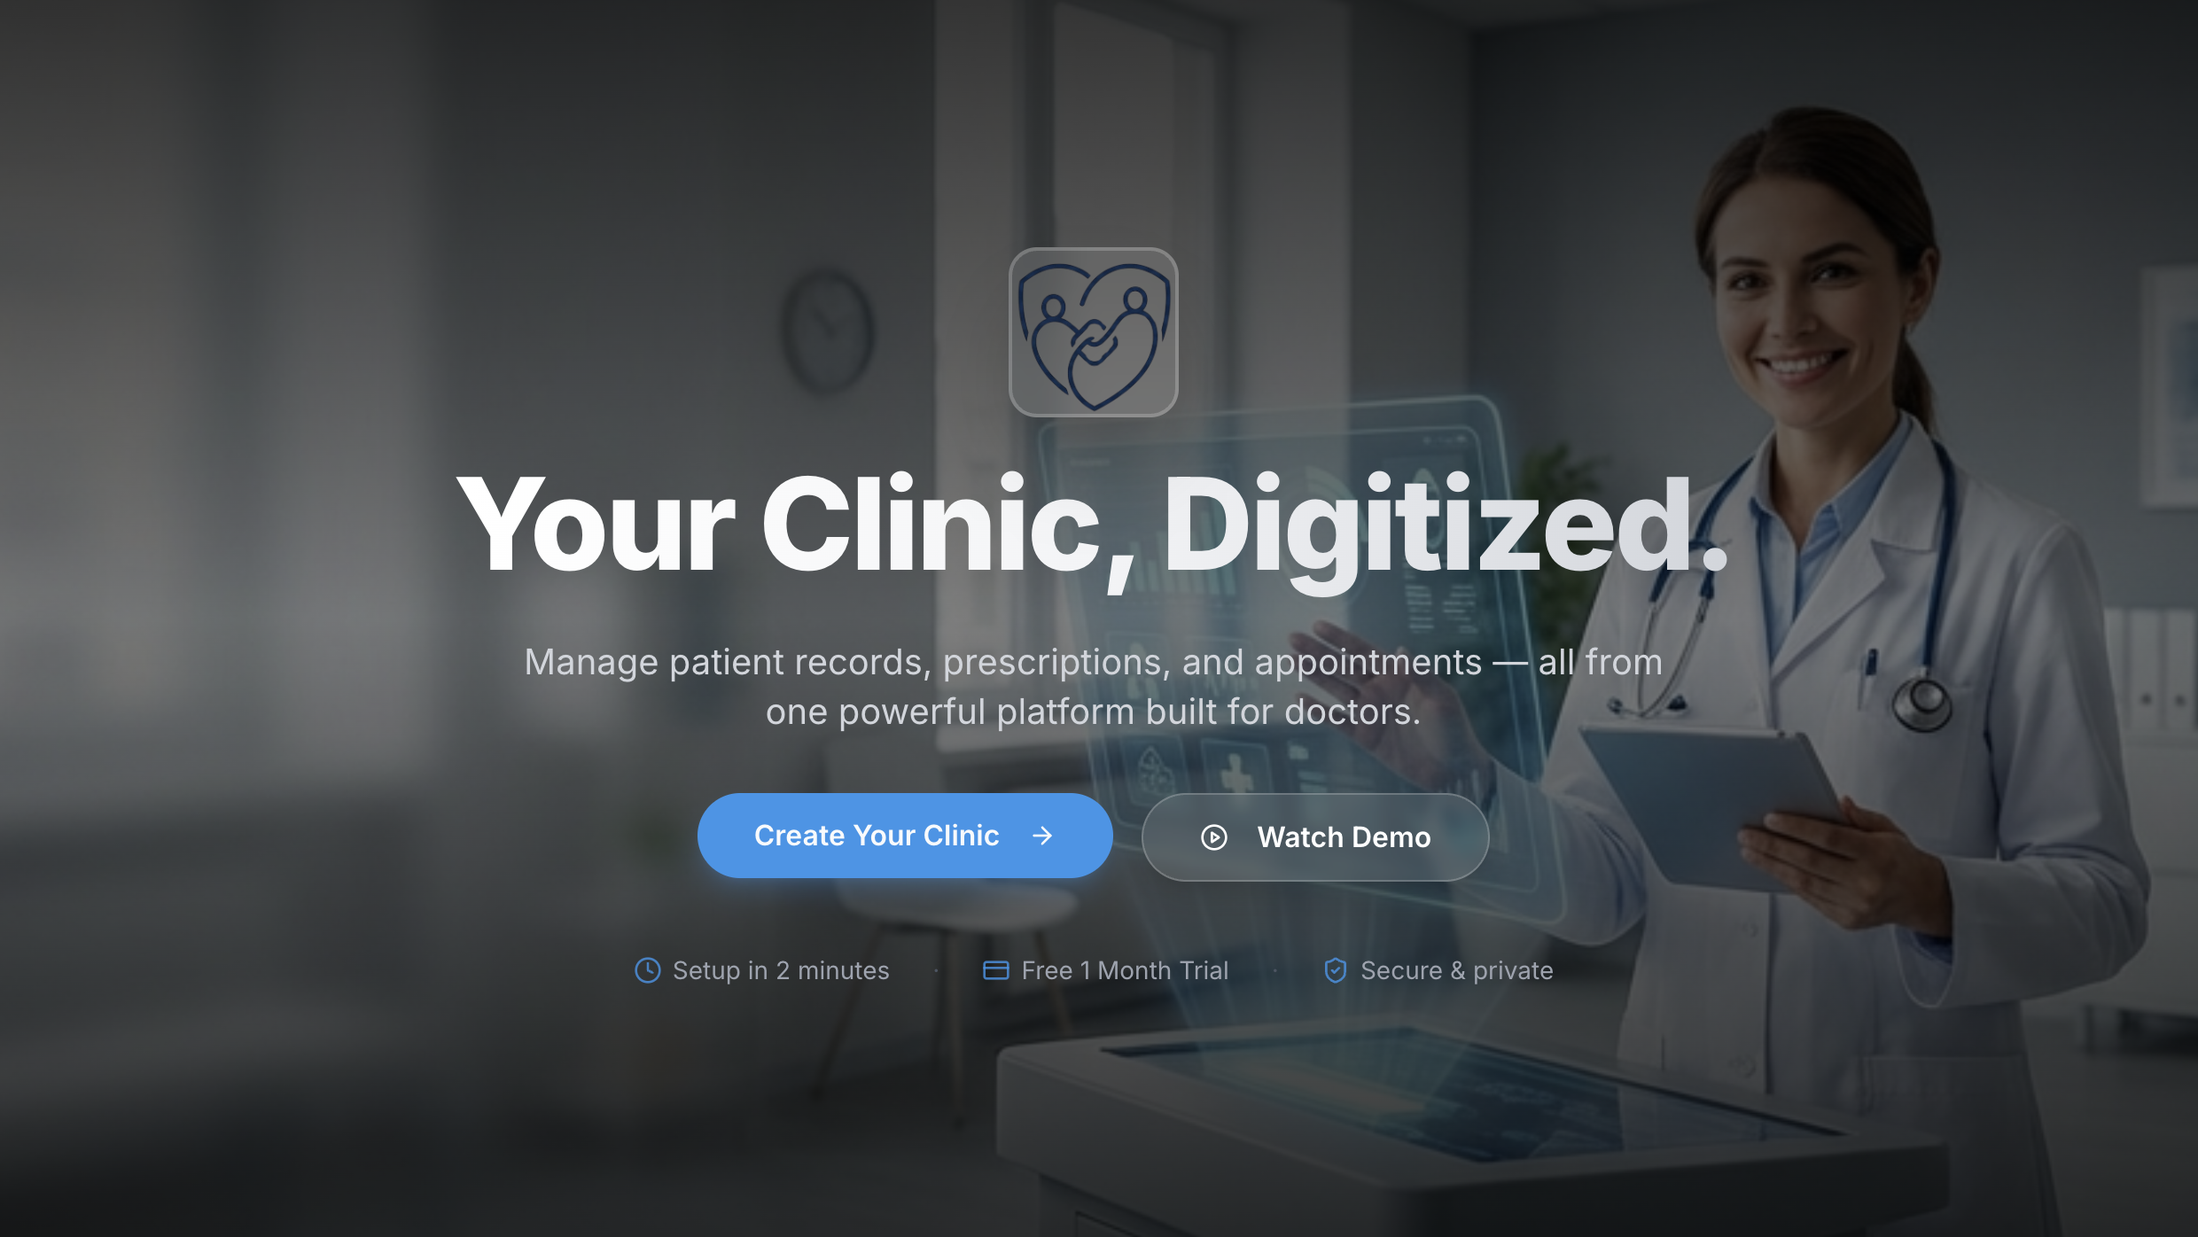
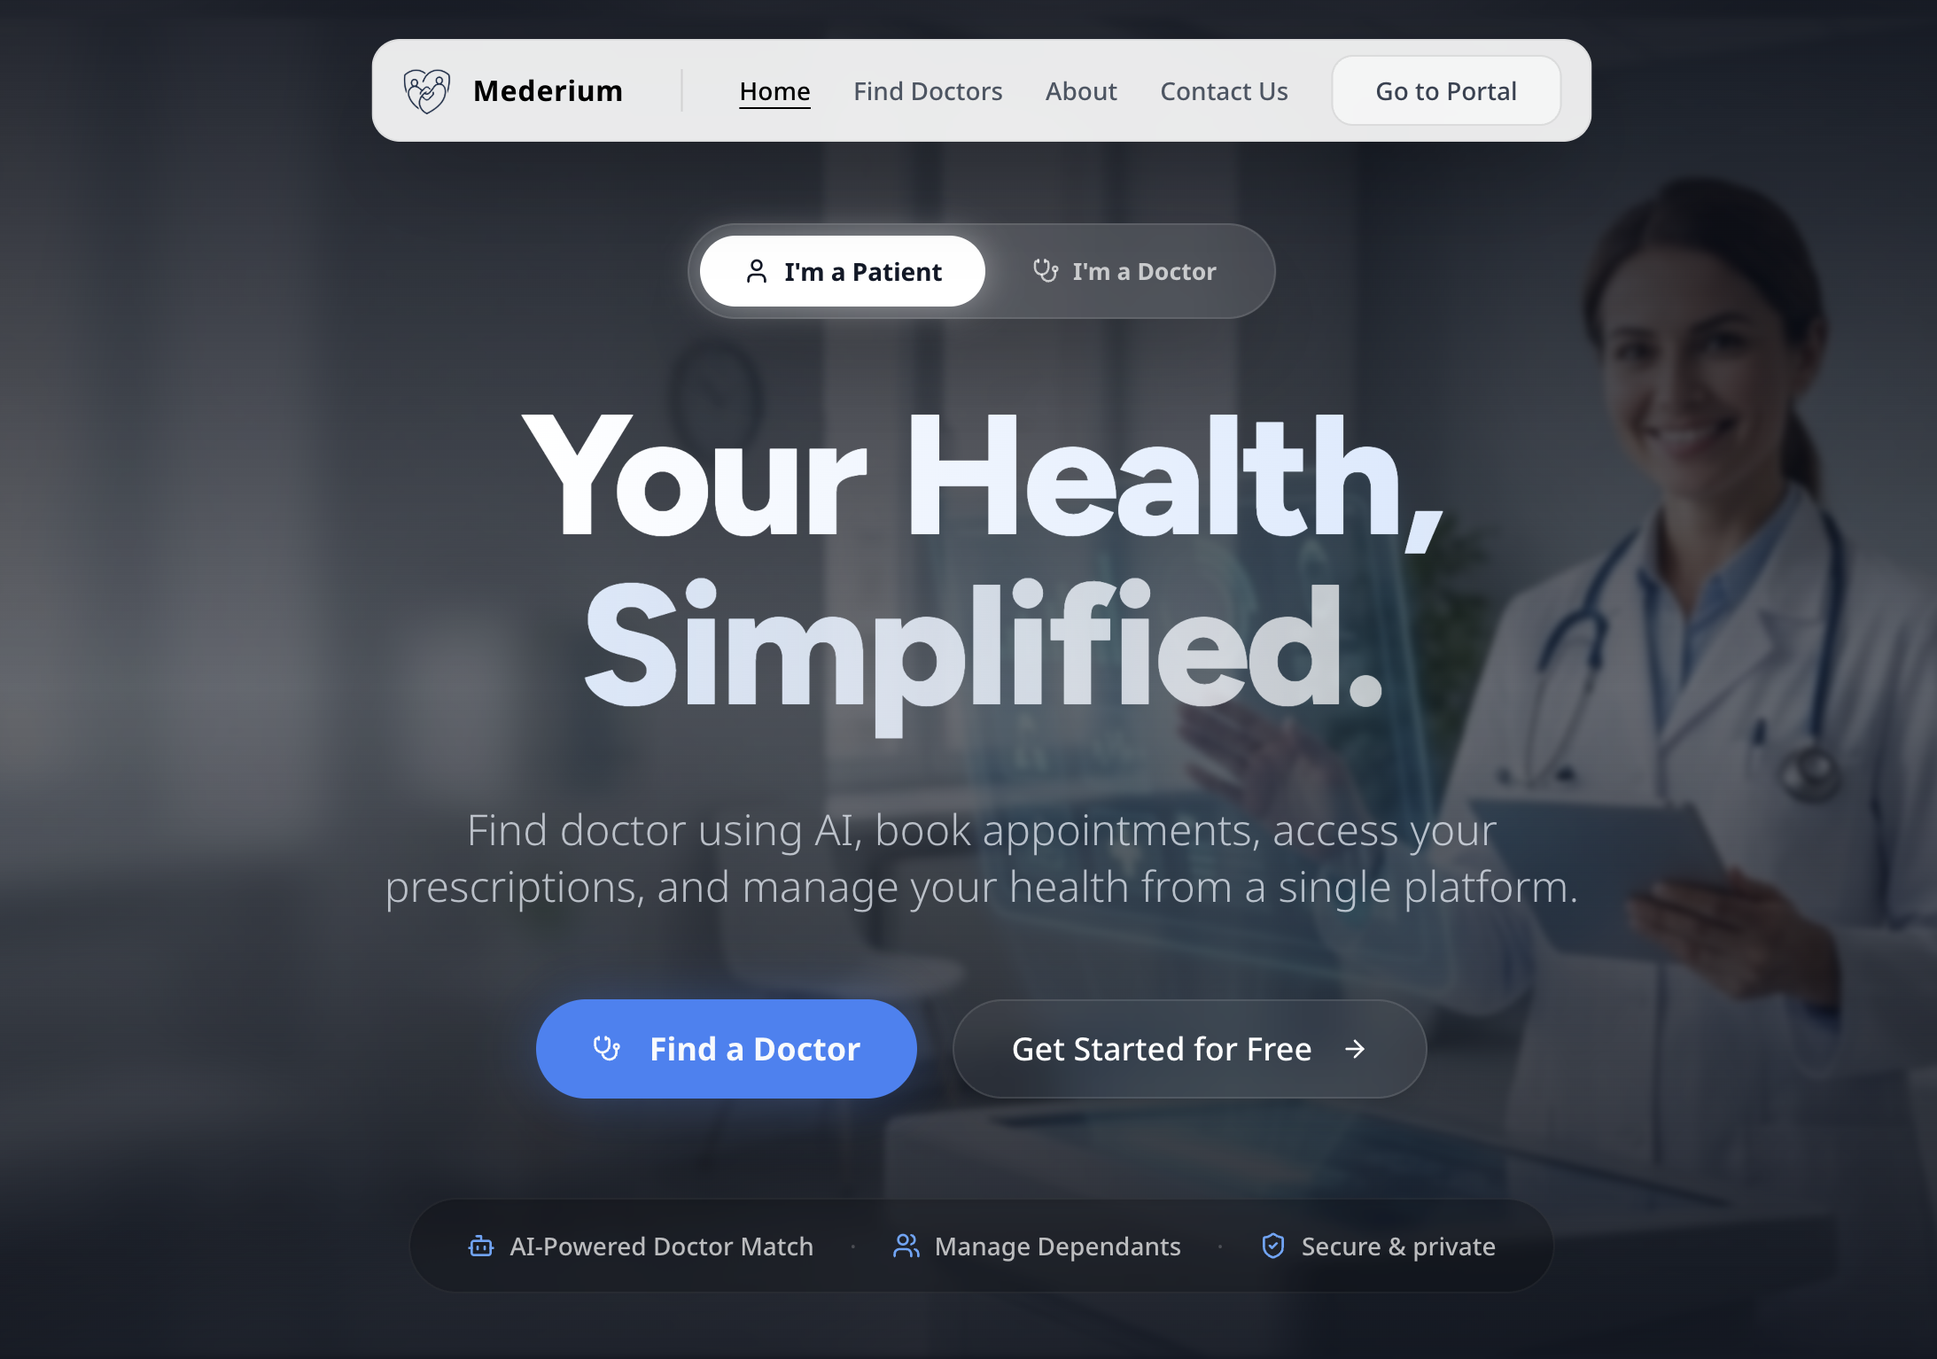
add AI Industry Projects section and update existing portfolio project content

Changed region(s): [[0.1555, 0.0, 1.0, 0.9549], [0.0311, 0.154, 0.0933, 0.5544], [0.2489, 0.8933, 0.4044, 0.9241]]

diff --git a/index.html b/index.html
@@ -22,6 +22,7 @@
                 <li><a href="#about">About</a></li>
                 <li><a href="#academia">Research</a></li>
                 <li><a href="#projects">Projects</a></li>
+                <li><a href="#ai-projects">AI Systems</a></li>
                 <li><a href="#contact" class="btn-primary btn-small">Let's Talk</a></li>
             </ul>
             <div class="hamburger">
@@ -46,7 +47,7 @@
             </div>
             <div class="hero-image-wrapper fade-in-up" style="animation-delay: 0.2s;">
                 <div class="image-border">
-                    <img src="assets/images/profile.jpeg" alt="M. Qasim Ayub" class="hero-image">
+                    <img src="assets/images/profile.jpg" alt="M. Qasim Ayub" class="hero-image">
                 </div>
             </div>
         </section>
@@ -89,32 +90,168 @@
                         <img src="assets/images/mederium.png" alt="Decentralized Healthcare" loading="lazy">
                     </div>
                     <div class="project-info">
-                        <h3 class="project-title">Healthcare Platform</h3>
-                        <p class="project-description">Platform for doctors and hospitals to conduct secure, commission-free consultations. Manage detailed patient records, appointments, and medical history. Features seed-based encryption for patient data and AI guidance using pretrained LLMs.</p>
+                        <h3 class="project-title">Mederium</h3>
+                        <p class="project-description">Platform for doctors and hospitals to conduct secure, commission-free consultations. Features Voice AI that lets doctors dictate a simple voice note and automatically generates a complete, structured prescription, segmented into medicines, clinical notes, patient history, and ICD-10 coded diagnoses.</p>
+                        <a href="https://mederium.com" class="card-repo-link" target="_blank">
+                            <svg width="18" height="18" fill="none" viewBox="0 0 24 24" stroke="currentColor" stroke-width="2" stroke-linecap="round" stroke-linejoin="round"><circle cx="12" cy="12" r="10"/><line x1="2" y1="12" x2="22" y2="12"/><path d="M12 2a15.3 15.3 0 0 1 4 10 15.3 15.3 0 0 1-4 10 15.3 15.3 0 0 1-4-10 15.3 15.3 0 0 1 4-10z"/></svg>
+                            Visit Website
+                        </a>
                     </div>
                 </div>
 
-                <!-- Project 2 -->
+                <!-- Project 2: Technovate -->
                 <div class="project-card glass-card">
                     <div class="project-image-container">
-                        <img src="assets/images/srm.png" alt="AI Resilience Manager" loading="lazy">
+                        <img src="assets/images/technovate.png" alt="Technovate Global" loading="lazy">
                     </div>
                     <div class="project-info">
-                        <h3 class="project-title">AI Supplier Resilience Manager</h3>
-                        <p class="project-description">Agentic AI system (RAG) that analyses and explains supplier price hikes with contextual, evidence-based reasoning. Leverages TradingEconomics and Metals APIs to assess global metal rates and regional economic conditions.</p>
+                        <h3 class="project-title">Technovate Global</h3>
+                        <p class="project-description">Designed and developed the marketing website for Technovate Global, a software house offering custom software development, AI solutions, and digital transformation services to clients worldwide.</p>
+                        <a href="https://technovateglobal.com" class="card-repo-link" target="_blank">
+                            <svg width="18" height="18" fill="none" viewBox="0 0 24 24" stroke="currentColor" stroke-width="2" stroke-linecap="round" stroke-linejoin="round"><circle cx="12" cy="12" r="10"/><line x1="2" y1="12" x2="22" y2="12"/><path d="M12 2a15.3 15.3 0 0 1 4 10 15.3 15.3 0 0 1-4 10 15.3 15.3 0 0 1-4-10 15.3 15.3 0 0 1 4-10z"/></svg>
+                            Visit Website
+                        </a>
                     </div>
                 </div>
 
-                <!-- Project 3: DevClan Dashboard -->
+                <!-- Project 3: Dewdrop -->
                 <div class="project-card glass-card">
                     <div class="project-image-container">
-                        <img src="assets/images/pbi.png" alt="Real Estate Analytics Dashboard" loading="lazy">
+                        <img src="assets/images/dewdrop.png" alt="Dewdrop Skincare" loading="lazy">
                     </div>
                     <div class="project-info">
-                        <h3 class="project-title">Real Estate Analytics Dashboard</h3>
-                        <p class="project-description">Built a Power BI analytics dashboard for a US-based real estate and escrow agency, delivering sales insights across 100,000+ properties and 100+ agents. Automated internal workflows reducing manual work by up to 90%.</p>
+                        <h3 class="project-title">Dewdrop</h3>
+                        <p class="project-description">Built the full e-commerce platform for Dewdrop, a Pakistani skincare brand, including a product storefront, shopping cart, Cash on Delivery checkout flow, order management, and a custom admin panel for inventory, order tracking, and customer data.</p>
+                        <a href="https://dewdrop.life" class="card-repo-link" target="_blank">
+                            <svg width="18" height="18" fill="none" viewBox="0 0 24 24" stroke="currentColor" stroke-width="2" stroke-linecap="round" stroke-linejoin="round"><circle cx="12" cy="12" r="10"/><line x1="2" y1="12" x2="22" y2="12"/><path d="M12 2a15.3 15.3 0 0 1 4 10 15.3 15.3 0 0 1-4 10 15.3 15.3 0 0 1-4-10 15.3 15.3 0 0 1 4-10z"/></svg>
+                            Visit Website
+                        </a>
                     </div>
                 </div>
+            </div>
+        </section>
+
+        <!-- AI Industry Projects Section -->
+        <section id="ai-projects" class="ai-projects scroll-reveal">
+            <div class="section-header">
+                <h2 class="section-title">AI Industry Projects</h2>
+                <div class="title-line"></div>
+            </div>
+
+            <div class="ai-projects-list">
+
+                <!-- Recruiter+ -->
+                <div class="ai-project-card glass-card">
+                    <div class="ai-project-header">
+                        <h3 class="project-title">Recruiter+</h3>
+                        <span class="ai-type-badge">AI Hiring Assistant · RAG Pipeline</span>
+                    </div>
+                    <p class="project-description">End-to-end AI recruitment platform with a dual-database architecture (PostgreSQL + Qdrant) that ingests CVs asynchronously, performs semantic search, and synthesises explainable recruiter insights — with automated LinkedIn enrichment running entirely in the background.</p>
+                    <div class="ai-project-divider"></div>
+                    <div class="ai-project-body">
+                        <div class="ai-highlights">
+                            <h4>Architecture Highlights</h4>
+                            <ul>
+                                <li>Async ingestion: PDF → LlamaParse → LLM JSON extraction → dual-DB indexing in seconds</li>
+                                <li>Real-time pipeline for individual uploads; Batch pipeline groups 500 CVs per job via OpenAI Batch API, cutting LLM costs by 50%</li>
+                                <li>Section-aware chunking (MarkdownHeaderTextSplitter) + entity resolution assigns one <code>candidate_id</code> across multiple CV variants</li>
+                                <li>Oversampling & deduplication: queries top-50 chunks from Qdrant, deduplicates to top-5 unique humans by <code>candidate_id</code></li>
+                                <li>Small-to-Big retrieval: chunk-level semantic precision → full CV + LinkedIn fetched from Postgres for explainable LLM synthesis with inline citations</li>
+                                <li>Automated LinkedIn scraping via Apify triggered on upload; re-scraped on shortlist/profile view and refreshed every 6 months via cron</li>
+                            </ul>
+                        </div>
+                        <div class="ai-tech-col">
+                            <h4>Tech Stack</h4>
+                            <div class="tech-stack">
+                                <span class="tech-chip">LlamaParse</span>
+                                <span class="tech-chip">GPT-4o-mini</span>
+                                <span class="tech-chip">OpenAI Embeddings</span>
+                                <span class="tech-chip">PostgreSQL</span>
+                                <span class="tech-chip">Qdrant</span>
+                                <span class="tech-chip">Apify</span>
+                                <span class="tech-chip">AWS S3</span>
+                                <span class="tech-chip">AWS SQS</span>
+                                <span class="tech-chip">AWS Lambda</span>
+                                <span class="tech-chip">LangChain</span>
+                            </div>
+                        </div>
+                    </div>
+                </div>
+
+                <!-- TaxAiders -->
+                <div class="ai-project-card glass-card">
+                    <div class="ai-project-header">
+                        <h3 class="project-title">TaxAiders</h3>
+                        <span class="ai-type-badge">AI Tax Automation · RAG Pipeline</span>
+                    </div>
+                    <p class="project-description">AI-powered tax automation system for UK clients integrating OCR, a RAG pipeline over UK tax codes and HMRC guidelines, omnichannel support routing, and a compliance engine that flags errors before a human ever sees the file.</p>
+                    <div class="ai-project-divider"></div>
+                    <div class="ai-project-body">
+                        <div class="ai-highlights">
+                            <h4>Architecture Highlights</h4>
+                            <ul>
+                                <li>AWS Textract + custom NER model extracts structured tax variables (National Insurance numbers, income thresholds) from uploaded PDFs</li>
+                                <li>RAG pipeline over UK tax codes (Amazon OpenSearch vector DB) powers a 24/7 multilingual GPT-4o chatbot with client-history context</li>
+                                <li>AI Compliance Engine: deterministic rule-based Python for hard thresholds + LLM for semantic gap detection ("missing utility bill for home office claim")</li>
+                                <li>Smart escalation: AI triage → Zendesk routing → live agent receives drafted AI response + client issue summary for fast resolution</li>
+                                <li>Proactive upsell alerts: Dynamic Tax Calculator triggers Salesforce notification when a client qualifies for a tax optimisation strategy</li>
+                            </ul>
+                        </div>
+                        <div class="ai-tech-col">
+                            <h4>Tech Stack</h4>
+                            <div class="tech-stack">
+                                <span class="tech-chip">GPT-4o</span>
+                                <span class="tech-chip">OpenAI Embeddings</span>
+                                <span class="tech-chip">AWS Textract</span>
+                                <span class="tech-chip">Amazon OpenSearch</span>
+                                <span class="tech-chip">AWS Lambda</span>
+                                <span class="tech-chip">Salesforce</span>
+                                <span class="tech-chip">Zendesk</span>
+                                <span class="tech-chip">Custom NER</span>
+                            </div>
+                        </div>
+                    </div>
+                </div>
+
+                <!-- AeroSQL -->
+                <div class="ai-project-card glass-card">
+                    <div class="ai-project-header">
+                        <h3 class="project-title">AeroSQL</h3>
+                        <span class="ai-type-badge">NLP-to-SQL · Agentic AI</span>
+                    </div>
+                    <p class="project-description">Next-generation NLP-to-SQL architecture with a semantic prompt cache, RBAC security layer, knowledge graph–powered JOIN accuracy, a self-correcting validation loop, and multi-model routing designed for enterprise-scale concurrent query throughput.</p>
+                    <div class="ai-project-divider"></div>
+                    <div class="ai-project-body">
+                        <div class="ai-highlights">
+                            <h4>Architecture Highlights</h4>
+                            <ul>
+                                <li>HNSW semantic cache: ≥99.9% match → instant return; 90–99% → Query Tweak Agent swaps variables in cached SQL; &lt;90% → full pipeline</li>
+                                <li>RBAC security: cache hits validated in Python against role access matrix; cache misses use Milvus metadata pre-filtering to physically starve the LLM of unauthorised schema</li>
+                                <li>Neo4j knowledge graph stores the ER map of the client DB — guarantees mathematically correct JOIN paths injected directly into the prompt</li>
+                                <li>Multi-model routing: NVIDIA NIM (Llama/Qwen) for lightweight agents (intent, table, column-prune, tweak); GPT-4o strictly for final SQL generation</li>
+                                <li>Self-correcting loop: LangGraph executes SQL as an EXPLAIN query; on error it appends the exact trace and loops GPT-4o to fix its own mistake</li>
+                                <li>K8s HPA scales pods on HTTP traffic spikes; NVIDIA NIM continuous in-flight batching groups concurrent prompts at the token level on-GPU</li>
+                            </ul>
+                        </div>
+                        <div class="ai-tech-col">
+                            <h4>Tech Stack</h4>
+                            <div class="tech-stack">
+                                <span class="tech-chip">GPT-4o</span>
+                                <span class="tech-chip">NVIDIA NIM</span>
+                                <span class="tech-chip">LangChain</span>
+                                <span class="tech-chip">LangGraph</span>
+                                <span class="tech-chip">Milvus</span>
+                                <span class="tech-chip">Neo4j</span>
+                                <span class="tech-chip">PostgreSQL</span>
+                                <span class="tech-chip">FastAPI</span>
+                                <span class="tech-chip">Kubernetes</span>
+                                <span class="tech-chip">SQLAlchemy</span>
+                                <span class="tech-chip">Pydantic v2</span>
+                            </div>
+                        </div>
+                    </div>
+                </div>
+
             </div>
         </section>
 

diff --git a/styles.css b/styles.css
@@ -613,6 +613,130 @@ a.research-badge:hover::after {
     flex-shrink: 0;
 }
 
+/* AI Industry Projects Section */
+.ai-projects-list {
+    display: flex;
+    flex-direction: column;
+    gap: 2rem;
+}
+
+.ai-project-card {
+    display: flex;
+    flex-direction: column;
+    gap: 1.25rem;
+    transition: transform 0.3s ease, box-shadow 0.3s ease, border-color 0.3s ease;
+}
+
+.ai-project-card:hover {
+    transform: translateY(-4px);
+    box-shadow: 0 12px 40px rgba(99, 102, 241, 0.12);
+    border-color: rgba(99, 102, 241, 0.25);
+}
+
+.ai-project-header {
+    display: flex;
+    align-items: center;
+    justify-content: space-between;
+    gap: 1rem;
+    flex-wrap: wrap;
+}
+
+.ai-type-badge {
+    font-size: 0.75rem;
+    font-weight: 600;
+    text-transform: uppercase;
+    letter-spacing: 0.8px;
+    color: #38bdf8;
+    background: rgba(56, 189, 248, 0.1);
+    border: 1px solid rgba(56, 189, 248, 0.25);
+    padding: 0.3rem 0.9rem;
+    border-radius: 20px;
+    white-space: nowrap;
+}
+
+.ai-project-divider {
+    height: 1px;
+    background: var(--card-border);
+}
+
+.ai-project-body {
+    display: grid;
+    grid-template-columns: 1fr 260px;
+    gap: 2.5rem;
+    align-items: start;
+}
+
+.ai-highlights h4,
+.ai-tech-col h4 {
+    font-size: 0.8rem;
+    font-weight: 600;
+    text-transform: uppercase;
+    letter-spacing: 1px;
+    color: var(--text-muted);
+    margin-bottom: 0.9rem;
+}
+
+.ai-highlights ul {
+    display: flex;
+    flex-direction: column;
+    gap: 0.65rem;
+    list-style: none;
+}
+
+.ai-highlights ul li {
+    color: var(--text-muted);
+    font-size: 0.9rem;
+    line-height: 1.6;
+    padding-left: 1.2rem;
+    position: relative;
+}
+
+.ai-highlights ul li::before {
+    content: '▹';
+    color: var(--accent-1);
+    position: absolute;
+    left: 0;
+    font-size: 1rem;
+    line-height: 1.6;
+}
+
+.ai-highlights ul li code {
+    font-family: monospace;
+    font-size: 0.82rem;
+    color: #a78bfa;
+    background: rgba(167, 139, 250, 0.1);
+    padding: 0.1rem 0.4rem;
+    border-radius: 4px;
+}
+
+.tech-stack {
+    display: flex;
+    flex-wrap: wrap;
+    gap: 0.5rem;
+}
+
+.tech-chip {
+    font-size: 0.78rem;
+    font-weight: 500;
+    color: var(--text-main);
+    background: rgba(255, 255, 255, 0.05);
+    border: 1px solid var(--card-border);
+    padding: 0.3rem 0.75rem;
+    border-radius: 20px;
+    transition: all 0.2s ease;
+}
+
+.tech-chip:hover {
+    background: rgba(99, 102, 241, 0.1);
+    border-color: rgba(99, 102, 241, 0.3);
+}
+
+@media (max-width: 900px) {
+    .ai-project-body {
+        grid-template-columns: 1fr;
+    }
+}
+
 /* Contact Section */
 .contact-card {
     text-align: center;
